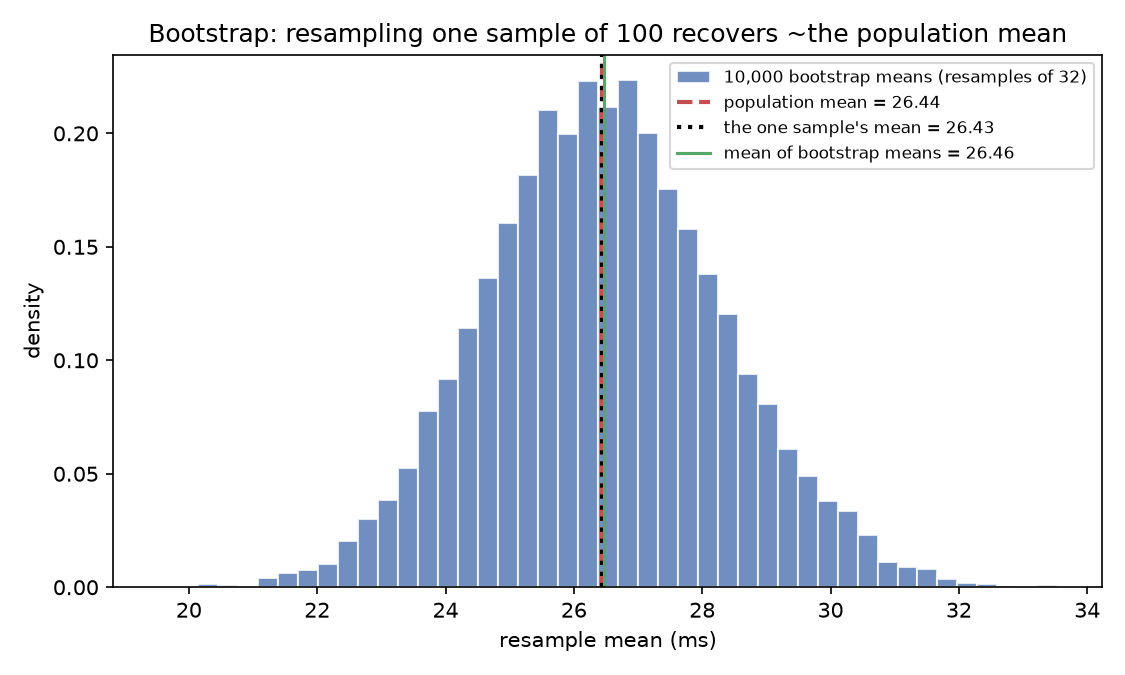
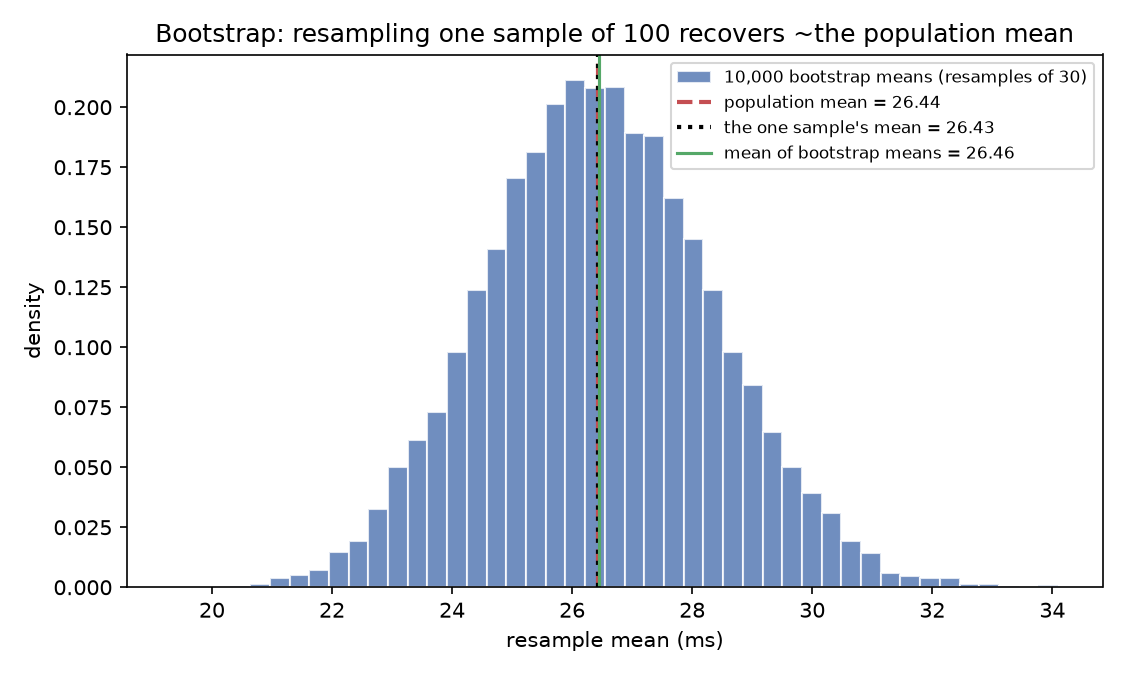
DS-21: fix a math-in-code-span parsing bug; switch bootstrap to batches of 30
- Parsing fix: the coin-proof line wrapped `T = (\text{tosses}) - H` in a code
  span, so GitHub rendered the LaTeX literally. Rewrote it as plain prose
  ("tosses minus heads"). Scanned the chapter for any other LaTeX trapped in a
  code span -- none remained. (The render lint doesn't catch this class, so it's
  a manual check.)
- Bootstrap reframed to match the intended mechanism: 10,000 batches of size 30
  (was 32) drawn from the one sample of 100; averaging all the batch means
  recovers the population mean (26.46 vs 26.44), while a single batch of 30
  misses (25.57) and a short run of 100 batches is still off (26.17). New note
  clarifies batch size controls the spread, not the center you average to.
- Refreshed every quoted number and the bootstrap plot to batch size 30; updated
  SPEC-DS-21 accordingly. De-duplicated a repeated "genuinely surprising".

Code runs; render lint + snippet compile pass (218 files). numpy 2.5.2,
matplotlib 3.11.1, Python 3.13.7, seeded.

diff --git a/01-data-science/03-worked-examples/code/clt_and_monte_carlo.py b/01-data-science/03-worked-examples/code/clt_and_monte_carlo.py
@@ -86,16 +86,16 @@ def plot_sampling_distributions(pop, dists) -> None:
 
 
 # --------------------------------------------------------------------------
-# Part 3 - bootstrapping ONE sample of 100 (mini-resamples of 32)
+# Part 3 - bootstrapping ONE sample of 100 (mini-resamples of 30)
 # --------------------------------------------------------------------------
-def bootstrap_one_sample(pop, sample_seed=27, n_sample=100, n_resample=32,
+def bootstrap_one_sample(pop, sample_seed=27, n_sample=100, n_resample=30,
                          n_boot=10_000, boot_seed=202):
     rng_s = np.random.default_rng(sample_seed)
     sample = pop[rng_s.integers(0, len(pop), size=n_sample)]  # one sample of 100
 
     rng_b = np.random.default_rng(boot_seed)
     idx = rng_b.integers(0, n_sample, size=(n_boot, n_resample))
-    boot_means = sample[idx].mean(axis=1)  # each: mean of a resample of 32
+    boot_means = sample[idx].mean(axis=1)  # each: mean of a resample of 30
     return sample, boot_means
 
 
@@ -103,7 +103,7 @@ def plot_bootstrap(pop, sample, boot_means) -> None:
     mu, xbar = pop.mean(), sample.mean()
     fig, ax = plt.subplots(figsize=(7.5, 4.5))
     ax.hist(boot_means, bins=45, density=True, color=BLUE, edgecolor="white", alpha=0.8,
-            label="10,000 bootstrap means (resamples of 32)")
+            label="10,000 bootstrap means (resamples of 30)")
     ax.axvline(mu, color=RED, linestyle="--", linewidth=2, label=f"population mean = {mu:.2f}")
     ax.axvline(xbar, color="black", linestyle=":", linewidth=2,
                label=f"the one sample's mean = {xbar:.2f}")
@@ -169,17 +169,17 @@ def main() -> None:
 
     sample, boot = bootstrap_one_sample(pop)
     plot_bootstrap(pop, sample, boot)
-    print("\n=== BOOTSTRAP: one sample of 100, then 10,000 resamples of 32 ===")
+    print("\n=== BOOTSTRAP: one sample of 100, then 10,000 resamples of 30 ===")
     print(f"the one sample's mean  x_bar        = {sample.mean():.4f} ms")
     print(f"mean of 10,000 bootstrap means      = {boot.mean():.4f} ms")
     print(f"population mean        mu           = {mu:.4f} ms")
-    print(f"a single resample of 32 mean        = {boot[0]:.4f} ms  (misses mu by {boot[0]-mu:+.4f})")
+    print(f"a single resample of 30 mean        = {boot[0]:.4f} ms  (misses mu by {boot[0]-mu:+.4f})")
     print(f"mean of just the first 100 resamples= {boot[:100].mean():.4f} ms  "
           f"(off by {boot[:100].mean()-mu:+.4f})")
     # honest caveat: a biased sample -> bootstrap faithfully reproduces the bias
     low = np.sort(pop)[:100]  # deliberately unrepresentative (100 fastest)
     rng_c = np.random.default_rng(303)
-    low_boot = low[rng_c.integers(0, 100, size=(10_000, 32))].mean(axis=1)
+    low_boot = low[rng_c.integers(0, 100, size=(10_000, 30))].mean(axis=1)
     print(f"\nCAVEAT -- a BIASED sample (the 100 fastest): its mean = {low.mean():.4f} ms; "
           f"bootstrap mean = {low_boot.mean():.4f} ms -> reproduces the bias, never reaches mu={mu:.4f}.")
 

diff --git a/01-data-science/03-worked-examples/16-clt-and-monte-carlo.md b/01-data-science/03-worked-examples/16-clt-and-monte-carlo.md
@@ -24,8 +24,8 @@ This chapter is two ideas that both replace hard algebra with a `for` loop:
   σ/√n, *whatever* shape the population has. We'll watch it happen on a deliberately ugly, skewed
   population, then use **bootstrapping** to estimate that spread from a single sample.
 - **Monte Carlo simulation** — when a probability is annoying to derive by hand, simulate it a few
-  million times and read the answer off. We'll use it to settle a puzzle with a genuinely surprising
-  exact answer: *what's the probability you get more heads from 2026 coin tosses than from 2025?*
+  million times and read the answer off. We'll use it to settle a puzzle whose exact answer catches
+  most people out: *what's the probability you get more heads from 2026 coin tosses than from 2025?*
 
 ```mermaid
 flowchart LR
@@ -174,25 +174,27 @@ Off by nearly a millisecond. The *average of many* samples finds μ; a *single* 
 production you almost never get to draw many samples — you get the one. That's the problem
 bootstrapping solves.
 
-## 4. Bootstrapping — squeezing a sampling distribution out of one sample
+## 4. Bootstrapping — averaging many small batches back to the mean
 
 You have one sample of 100 and no way to ask the population for more. The bootstrap pretends your
-sample *is* the population and draws fresh "mini-samples" from it, with replacement. Here we draw
-10,000 resamples of size 32 and take each one's mean.
+sample *is* the population and draws many fresh "mini-batches" from it, with replacement. Here we draw
+**10,000 batches of size 30**, take each batch's mean, and then **average all 10,000 of those means** —
+which lands right back on the population mean.
 
 ```mermaid
 flowchart LR
-    S["one real sample<br/>(100 observations)"] -->|"resample 32,<br/>with replacement"| R1["resample 1 -> mean"]
-    S -->|"resample 32"| R2["resample 2 -> mean"]
-    S -->|"... x10,000"| R3["resample 10,000 -> mean"]
-    R1 --> D["distribution of<br/>bootstrap means"]
+    S["one real sample<br/>(100 observations)"] -->|"draw a batch of 30,<br/>with replacement"| R1["batch 1 -> mean"]
+    S -->|"batch of 30"| R2["batch 2 -> mean"]
+    S -->|"... x10,000"| R3["batch 10,000 -> mean"]
+    R1 --> D["10,000 batch means"]
     R2 --> D
     R3 --> D
-    D --> SE["its spread estimates the<br/>real standard error"]
+    D -->|"average them all"| AVG["~ the population mean"]
+    D -->|"their spread"| SE["estimates the<br/>standard error"]
 ```
 
 ```python
-def bootstrap_one_sample(pop, sample_seed=27, n_sample=100, n_resample=32,
+def bootstrap_one_sample(pop, sample_seed=27, n_sample=100, n_resample=30,
                          n_boot=10_000, boot_seed=202):
     sample = pop[np.random.default_rng(sample_seed).integers(0, len(pop), n_sample)]
     idx = np.random.default_rng(boot_seed).integers(0, n_sample, size=(n_boot, n_resample))
@@ -201,31 +203,31 @@ def bootstrap_one_sample(pop, sample_seed=27, n_sample=100, n_resample=32,
 
 sample, boot = bootstrap_one_sample(pop)
 print(f"the one sample's mean  x_bar          = {sample.mean():.4f} ms")
-print(f"mean of 10,000 bootstrap means        = {boot.mean():.4f} ms")
+print(f"mean of 10,000 batch means            = {boot.mean():.4f} ms")
 print(f"population mean        mu             = {pop.mean():.4f} ms")
-print(f"a single resample of 32               = {boot[0]:.4f} ms  (misses mu by {boot[0]-pop.mean():+.4f})")
-print(f"mean of just the first 100 resamples  = {boot[:100].mean():.4f} ms  (off by {boot[:100].mean()-pop.mean():+.4f})")
+print(f"a single batch of 30                  = {boot[0]:.4f} ms  (misses mu by {boot[0]-pop.mean():+.4f})")
+print(f"mean of just the first 100 batches    = {boot[:100].mean():.4f} ms  (off by {boot[:100].mean()-pop.mean():+.4f})")
 ```
 
 ```text
 the one sample's mean  x_bar          = 26.4315 ms
-mean of 10,000 bootstrap means        = 26.4646 ms
+mean of 10,000 batch means            = 26.4555 ms
 population mean        mu             = 26.4363 ms
-a single resample of 32               = 25.5327 ms  (misses mu by -0.9036)
-mean of just the first 100 resamples  = 26.1806 ms  (off by -0.2557)
+a single batch of 30                  = 25.5713 ms  (misses mu by -0.8650)
+mean of just the first 100 batches    = 26.1706 ms  (off by -0.2657)
 ```
 
-Read those four numbers top to bottom — they're the whole point of the section:
+Read those numbers top to bottom — they're the whole point of the section:
 
-- **Aggregating all 10,000 bootstrap means recovers the population mean.** The grand bootstrap mean is
-  **26.46**, essentially on top of **μ = 26.44**. From one sample and a `for` loop, we landed on the
-  truth.
-- **A single resample of 32 does not.** The very first one is **25.53**, off by nearly a full
+- **Averaging all 10,000 batch means recovers the population mean.** The grand bootstrap mean is
+  **26.46**, essentially on top of **μ = 26.44**. That's the headline: from one sample of 100 and a
+  `for` loop drawing small batches, averaging them all reconstructs the mean.
+- **A single batch of 30 does not.** The very first one is **25.57**, off by nearly a full
   millisecond. One draw is noise; the aggregate is signal — the same lesson as Section 3, one level in.
-- **A short run isn't enough, either.** Average only the first 100 resamples and you get **26.18**,
-  still off by −0.26. Monte Carlo estimates need *volume* to converge (Section 6 makes that precise).
+- **A short run isn't enough, either.** Average only the first 100 batches and you get **26.17**,
+  still off by −0.27. The estimate needs *volume* — thousands of batches, not a hundred — to converge.
 
-![Density histogram of 10,000 bootstrap resample means, a clean bell curve. Three vertical lines nearly coincide near 26.4 ms: the population mean (dashed red, 26.44), the one sample's mean (dotted black, 26.43), and the mean of the bootstrap means (green, 26.46). A single resample would land anywhere across the wide bell, roughly 22-31 ms.](artefacts/clt_bootstrap.png)
+![Density histogram of 10,000 bootstrap batch means, a clean bell curve. Three vertical lines nearly coincide near 26.4 ms: the population mean (dashed red, 26.44), the one sample's mean (dotted black, 26.43), and the mean of the batch means (green, 26.46). A single batch would land anywhere across the wide bell, roughly 21-31 ms.](artefacts/clt_bootstrap.png)
 
 ### The honest caveat: bootstrap trusts your sample completely
 
@@ -236,12 +238,12 @@ will faithfully, confidently reproduce that bias:
 
 ```python
 low = np.sort(pop)[:100]  # a deliberately BAD sample: the 100 fastest requests
-low_boot = low[np.random.default_rng(303).integers(0, 100, size=(10_000, 32))].mean(axis=1)
+low_boot = low[np.random.default_rng(303).integers(0, 100, size=(10_000, 30))].mean(axis=1)
 print(f"biased sample mean = {low.mean():.4f} ms | bootstrap mean = {low_boot.mean():.4f} ms | mu = {pop.mean():.4f} ms")
 ```
 
 ```text
-biased sample mean = 10.4921 ms | bootstrap mean = 10.4930 ms | mu = 26.4363 ms
+biased sample mean = 10.4921 ms | bootstrap mean = 10.4920 ms | mu = 26.4363 ms
 ```
 
 The bootstrap of the "100 fastest requests" sample sits at **10.49 ms** and never comes anywhere near
@@ -249,10 +251,12 @@ the true **26.44 ms** — it can only ever tell you about the sample it was give
 estimates *how much your estimate would wobble if you resampled*; it cannot fix a sample that was
 never representative in the first place. That is the one thing to remember about it.
 
-> **A note on resample size.** Textbook bootstrapping resamples at the *original* sample size (100
-> here), not 32. Smaller resamples widen the bootstrap spread by roughly √(100/32) ≈ 1.77×, so the
-> `size=32` "mini-samples" used above exaggerate the wobble on purpose, to make the spread visible.
-> When you bootstrap a confidence interval for real, resample at the full sample size.
+> **A note on batch size.** The batch size (30 here) controls the *spread* of the bootstrap
+> distribution, not the *center* you're averaging to — averaging the batch means lands on the sample
+> mean at any batch size, which is why batches of 30 recover the mean just fine. Batch size only
+> changes the wobble: smaller batches widen the spread by roughly √(100/30) ≈ 1.8× versus drawing at
+> the full size of 100. So when you bootstrap a *confidence interval* (where the spread is the point),
+> draw at the full sample size; when you just want to reconstruct the mean, small batches are fine.
 
 ## 5. Monte Carlo — a coin problem with a surprising exact answer
 
@@ -289,7 +293,8 @@ interchangeable, so the friend is equally likely to get more *heads* than you as
 P(H_{2026} > H_{2025}) = P(T_{2026} > T_{2025})
 ```
 
-Now rewrite the tails as `T = (\text{tosses}) - H`. The friend's tails exceed yours exactly when:
+Now rewrite each tails count as *tosses − heads* (a person's tails are simply their number of tosses
+minus their heads). The friend's tails exceed yours exactly when:
 
 ```math
 2026 - H_{2026} > 2025 - H_{2025}
@@ -336,8 +341,9 @@ algebra.
 - **Under-powered Monte Carlo.** A few hundred trials gave answers anywhere from 0.4 to 0.6 (the
   convergence plot). Always check that your estimate has stabilised — plot it against trial count, or
   run it twice with different seeds and confirm the answers agree to the precision you need.
-- **Resample size in the bootstrap.** Resample at the original sample size for honest intervals;
-  Section 4 shrank it to 32 only to make the spread easy to see.
+- **Batch size in the bootstrap.** Averaging the batch means recovers the mean at any batch size, but
+  the *spread* depends on it — draw at the full sample size for honest confidence intervals; Section 4
+  used batches of 30 to widen (and so show off) the spread.
 
 ## 7. Recap & what's next
 
@@ -346,10 +352,10 @@ algebra.
   matching **σ/√n** to two decimals.
 - A **single sample misses** μ (ours by +0.89 ms); the **average of many** samples finds it. That's
   why aggregation is trustworthy and one measurement isn't.
-- **Bootstrapping** manufactures a sampling distribution from one sample by resampling with
-  replacement. Aggregated, it recovered μ (26.46 vs 26.44) — but only because the sample was
-  representative; on a biased sample it reproduced the bias (10.49, never reaching 26.44). It
-  estimates *wobble*, not *truth*.
+- **Bootstrapping** draws many small batches (10,000 of size 30) from one sample and averages their
+  means — recovering μ (26.46 vs 26.44) — but only because the sample was representative; on a biased
+  sample it reproduced the bias (10.49, never reaching 26.44). It reconstructs the mean, and its spread
+  estimates the *wobble*.
 - **Monte Carlo simulation** answers "what's P(X)" by playing X out millions of times. The
   2026-vs-2025 coin problem came out at **0.50026**, confirming the exact **1/2** the symmetry
   argument proves — the extra toss is worth nothing.

diff --git a/specs/SPEC-DS-21-clt-and-monte-carlo.md b/specs/SPEC-DS-21-clt-and-monte-carlo.md
@@ -38,8 +38,8 @@ confidence-interval methods beyond the percentile idea (BCa etc.); MCMC (that's 
 2. What & why — CLT, bootstrap, Monte Carlo defined; Java framing.
 3. The population — 1000 right-skewed observations, clearly non-normal.
 4. CLT by fresh sampling — many samples of n=10/30/100; means go Normal; SE=σ/√n table + plot.
-5. Bootstrapping one sample — resamples of 32; grand mean ≈ population mean; single resample misses;
-   the biased-sample caveat.
+5. Bootstrapping one sample — 10,000 batches of 30; averaging the batch means ≈ population mean; a
+   single batch misses; the biased-sample caveat.
 6. Monte Carlo — the 2026-vs-2025 coin problem; simulate → ≈0.5; the exact 1/2 by symmetry; convergence.
 7. Pitfalls.
 8. Recap & next.
@@ -62,8 +62,8 @@ confidence-interval methods beyond the percentile idea (BCa etc.); MCMC (that's 
 - [x] AC1 — CLT shown on a non-normal population; empirical SE matches σ/√n → evidence: the results table
       (4.26≈4.15, 2.35≈2.40, 1.34≈1.31) + `clt_sampling_distributions.png`.
 - [x] AC2 — every snippet runs → evidence: `clt_and_monte_carlo.py` executed; outputs quoted verbatim.
-- [x] AC3 — bootstrap grand mean ≈ population mean, single resample misses, biased sample reproduces
-      bias → evidence: bootstrap output block + `clt_bootstrap.png`.
+- [x] AC3 — averaging the batch means ≈ population mean, a single batch misses, biased sample
+      reproduces bias → evidence: bootstrap output block + `clt_bootstrap.png`.
 - [x] AC4 — Monte Carlo → 0.50026, exact 1/2 proved → evidence: MC output + `monte_carlo_coin_convergence.png`.
 - [x] AC5 — renders on GitHub (fenced `math`, simple inline) + audience-fit Java framing.
 
